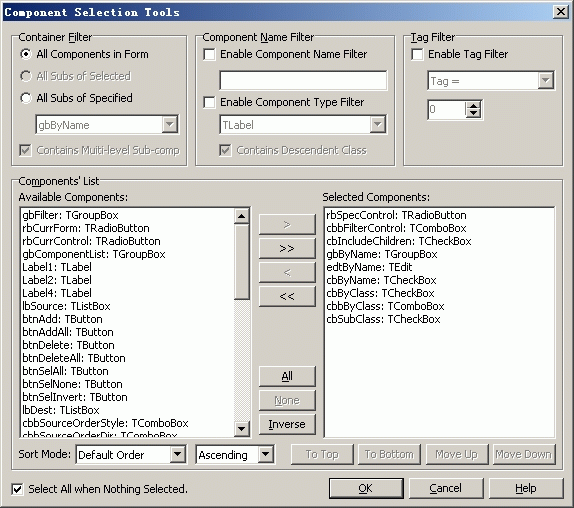
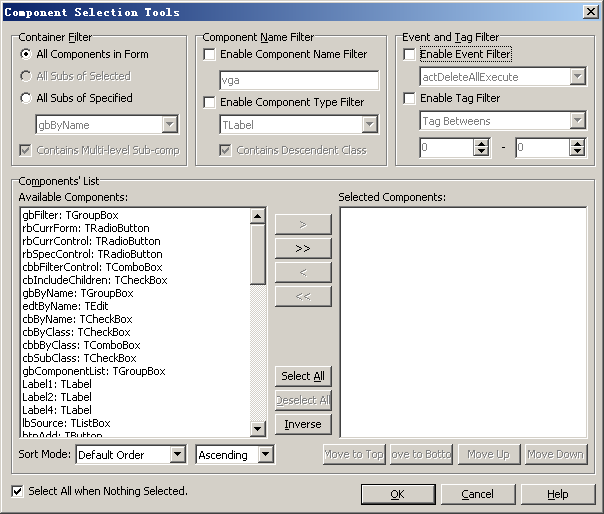
* [Help] 更新组件选择帮助 / Update help of Comp Selector.

Changed region(s): [[0.0, 0.0, 1.0, 1.0]]

diff --git a/trunk/cnwizards/Help/CnWizards_ENU/wizards/componentselector.htm b/trunk/cnwizards/Help/CnWizards_ENU/wizards/componentselector.htm
@@ -33,6 +33,7 @@
 </ul></li>
 <li><p align="left" class="text"><b>Enable Component Name Filter</b>: If this checkbox was checked, only those components whose name contains input text will appear in "Components' List" Listbox.</p></li>
 <li><p align="left" class="text"><b>Enable Component Type Filter</b>: Filter component list by component classname.</p></li>
+<li><p align="left" class="text"><b>Enable Event Filter</b>: Filter component list by component event.</p></li>
 <li><p align="left" class="text"><b>Enable Tag Filter</b>: Filter component list by component Tag.</p></li>
 <li><p align="left" class="text"><b>Components' List</b>: There's 7 buttons between the two listbox. They are:</p>
 <ul>
